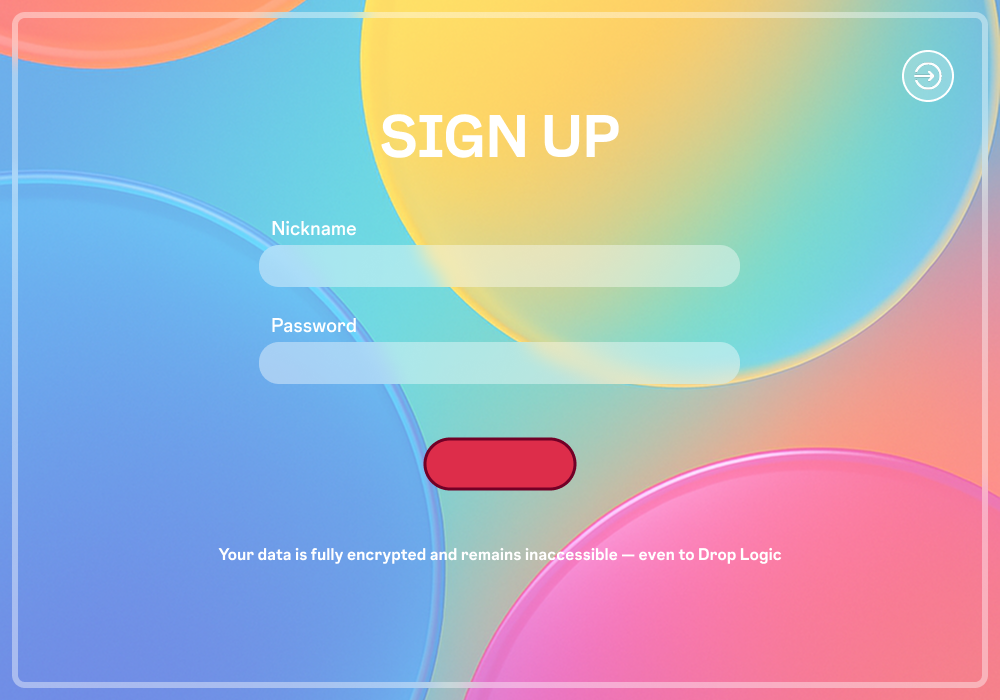
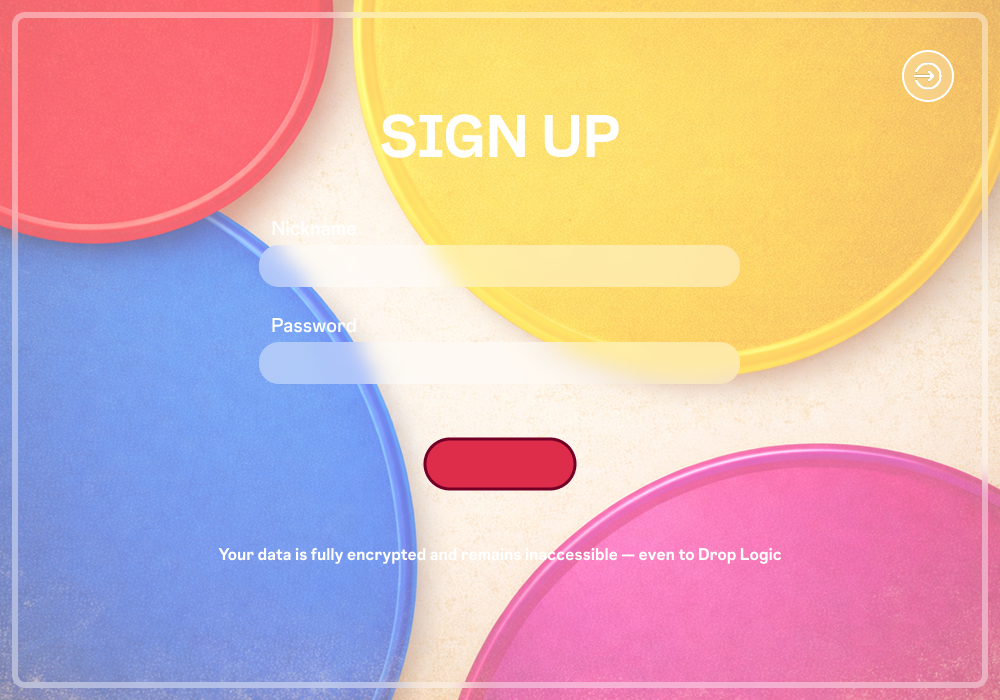
v 1.0.5 - lavoro 27/12/2025 - luca

diff --git a/core/src/main/sorgente/LoadingScreen.java b/core/src/main/sorgente/LoadingScreen.java
@@ -28,7 +28,12 @@ public class LoadingScreen implements Screen, ProgressListener {
 
     private int bg;
     private Texture background;
-    private final String[] colorsLoader = {"#201F6B", "#640414", "#022159", "#A11608", "#0E2036", "#9D9D9D"};
+    private final String[] colorsLoader = {
+        "#201F6B",
+        "#022159",
+        "#A11608",
+        "#9D9D9D"
+    };
 
     private Music openSound;
     private final boolean playMusic;
@@ -118,16 +123,14 @@ public class LoadingScreen implements Screen, ProgressListener {
 
     public void selectScreen() {
         Random r = new Random();
-        if (playMusic) bg = r.nextInt(5);
-        else bg = 5;
+        if (playMusic) bg = r.nextInt(3);
+        else bg = 3;
 
         String[] bgPaths = {
             "loading_screens/loading_screen_0.png",
             "loading_screens/loading_screen_1.png",
             "loading_screens/loading_screen_2.png",
-            "loading_screens/loading_screen_3.png",
-            "loading_screens/loading_screen_4.png",
-            "loading_screens/loading_screen_5.png"
+            "loading_screens/loading_screen_3.png"
         };
         background = new Texture(bgPaths[bg]);
     }
